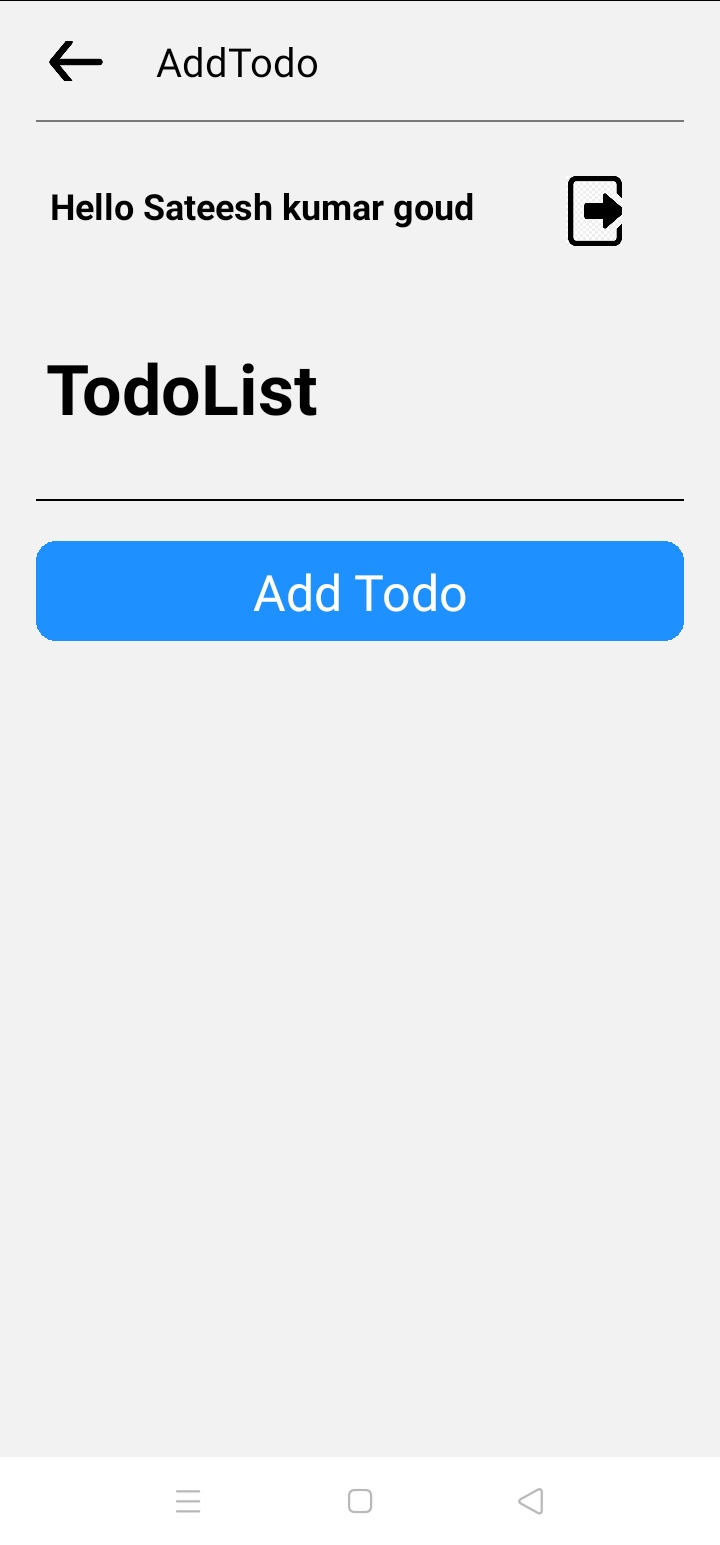
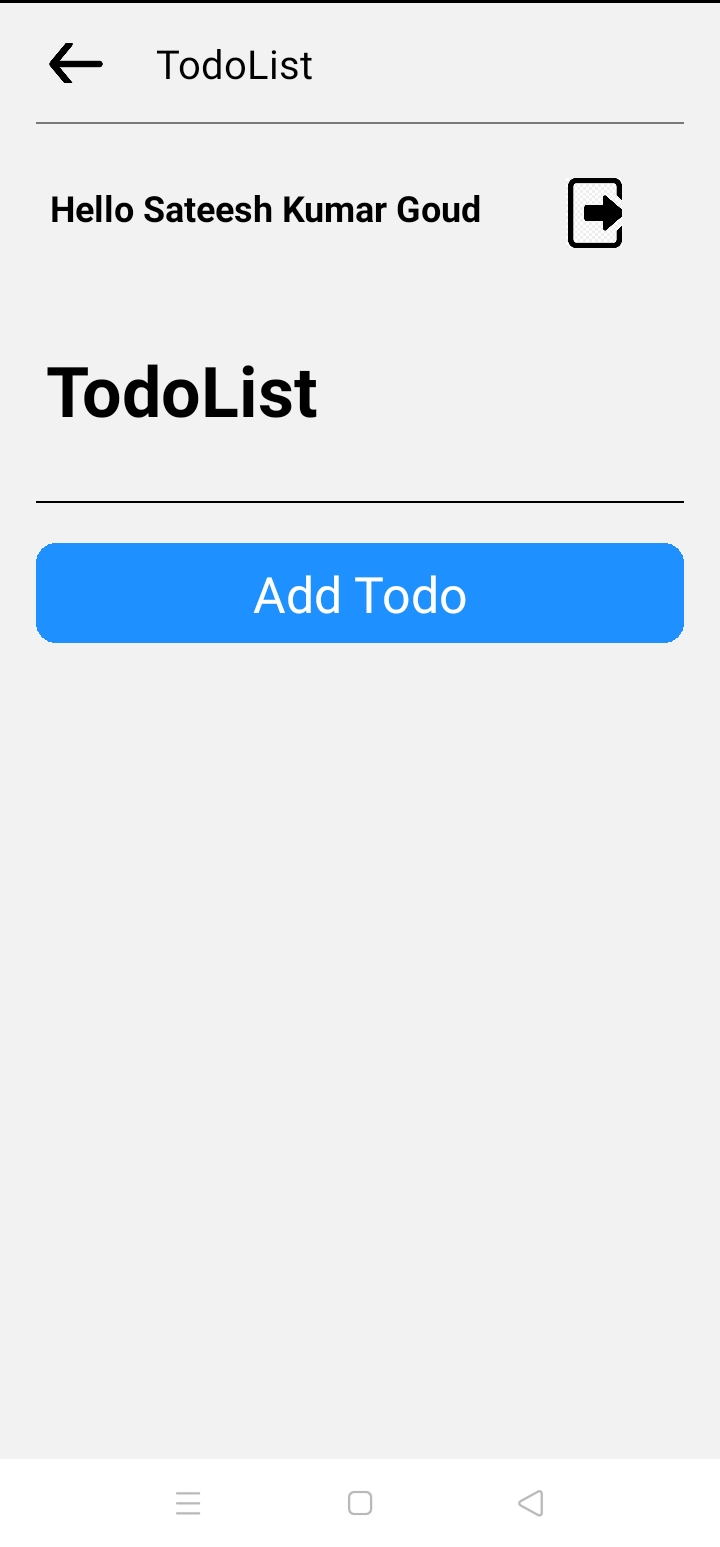
tittle modified

diff --git a/src/screens/TodoList.jsx b/src/screens/TodoList.jsx
@@ -122,7 +122,7 @@ const TodoList = () => {
             style={style.backarrowIcon}
           />
         </TouchableOpacity>
-        <Text style={style.loginText}>AddTodo</Text>
+        <Text style={style.loginText}>TodoList</Text>
       </View>
       <View style={style.headerContainer}>
         <Text style={style.userName}>Hello {name}</Text>

diff --git a/src/screens/EditTodo.jsx b/src/screens/EditTodo.jsx
@@ -94,7 +94,7 @@ const EditTodo = () => {
             style={style.backarrowIcon}
           />
         </TouchableOpacity>
-        <Text style={style.loginText}>TodoList</Text>
+        <Text style={style.loginText}>EditTodo</Text>
       </View>
       <View style={style.container}>
         <TextInput

diff --git a/src/screens/AddTodo.jsx b/src/screens/AddTodo.jsx
@@ -80,7 +80,7 @@ const AddTodo = () => {
             style={style.backarrowIcon}
           />
         </TouchableOpacity>
-        <Text style={style.loginText}>TodoList</Text>
+        <Text style={style.loginText}>AddTodo</Text>
       </View>
       <View style={style.container}>
         <TextInput

diff --git a/README.md b/README.md
@@ -80,14 +80,14 @@ To learn more about React Native, take a look at the following resources:
 
 # Download link
 
-Apk download link([DownloadLink](https://drive.google.com/file/d/1XH4LEskRvsk_cYrYUiIkAPyhP2l3LZ4n/view))
+Apk download link([DownloadLink](https://drive.google.com/file/d/1Zgj1_6-1lGyFY9ggyrr6HL1DX3rFCTEC/view))
 
 ## Screenshots
 
-<img src="/src/images/Home.jpg" alt="Screenshot 2" width="300"/>
-<img src="/src/images/Login.jpg" alt="Screenshot 2" width="300"/>
-<img src="/src/images/signup.jpg" alt="Screenshot 2" width="300"/>
-<img src="/src/images/Todolist.jpg" alt="Screenshot 2" width="300"/>
-<img src="/src/images/addTodo.jpg" alt="Screenshot 2" width="300"/>
-<img src="/src/images/todolist2.jpg" alt="Screenshot 2" width="300"/>
-<img src="/src/images/EditTodo.jpg" alt="Screenshot 2" width="300"/>
+<img src="/src/images/Home.jpg" alt="Screenshot 2" width="200"/>
+<img src="/src/images/Login.jpg" alt="Screenshot 2" width="200"/>
+<img src="/src/images/signup.jpg" alt="Screenshot 2" width="200"/>
+<img src="/src/images/todoList.jpg" alt="Screenshot 2" width="200"/>
+<img src="/src/images/addTodo.jpg" alt="Screenshot 2" width="200"/>
+<img src="/src/images/todoList2.jpg" alt="Screenshot 2" width="200"/>
+<img src="/src/images/editTodo.jpg" alt="Screenshot 2" width="200"/>
